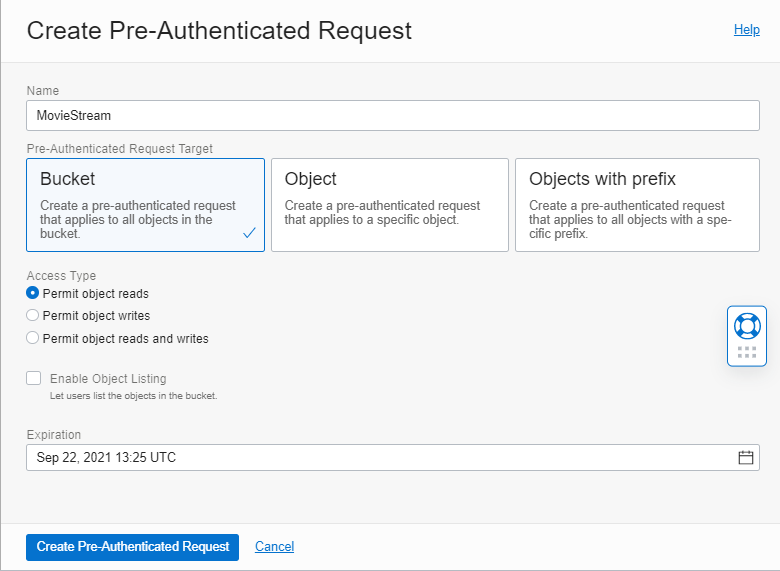
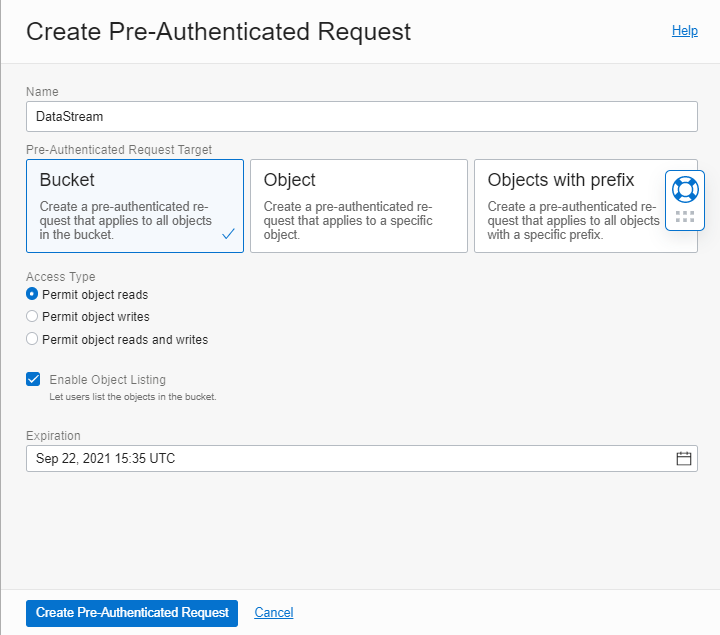
update on data feed

diff --git a/loading-datafeed/loading-datafeed.md b/loading-datafeed/loading-datafeed.md
@@ -37,28 +37,93 @@ To complete this lab, you need to have the following:
 4. Click on the vertical 3 dots icon on the right end of the bucket name and select the create pre-authenticated request option.
 ![Click on to create new bucket](images/click_the3dots_and_select_create_pre_authenticated_request.png =1000x500)
 
-5. Enter a name for the pre-authenticated request. Ensure their are not spaces in the name. Choose the option for Bucket.
+  Note: By default the visibility is set a private.  Its standard practice to keep bucket visibility private and create pre-authenticated request URI on which we can set permission and a expiry date.
+
+5. Enter a name for the pre-authenticated request. Ensure their are not spaces in the name. Choose the option for Bucket and check the Enable Object Listing option.
 ![Click on to create new bucket](images/enter_name_click_create_pre_authenticated_reqeust_button.png =1000x500)
 
 6. Copy the URI either by selecting it from the box or by clicking on the copy icon on the right side.
 ![Click on to create new bucket](images/copy_pre-authenticated_request_uri.png =1000x500)
 
-  Note the URI would look be like
-  https://objectstorage.<region>.oraclecloud.com/p/\<---token----\>/n/<--tenancy/namespace-->/b/<--Bucket Name-->/o/
+  Your URI would look like
 
-  delete the section "/p/<---token---->""
-
-  So you URI would look like
-
-  https://objectstorage.<region>.oraclecloud.com/n/<tenancy/namespace>/b/<Bukect Name>/o/
-
-  i.e., https://objectstorage.us-ashburn-1.oraclecloud.com/n/oraclepartnersas/b/DataStream/o/
+  https://objectstorage.us-ashburn-1.oraclecloud.com/p/YvB1YSywPUMK7PxLxa4i5ciUW-cmlOcOGMLc_ZA0EAcMWc1xEMVJMtQLApFdKCSo/n/oraclepartnersas/b/DataStream/o/
 
   **Save the URI into notepad as we would be using this in the further steps.**
 
+  **Note:** the URI would look be like
+  **https://objectstorage.<region>.oraclecloud.com/p/<--token-->/n/<--tenancy or namespace-->/b/<--Bucket Name-->/o/**
+
+  Incase we have set the visibility of the bucket to public we can delete the section **"/p/<--token-->""**
+  So your URI would look like
+  **https://objectstorage.<region>.oraclecloud.com/n/<--tenancy or namespace-->/b/<--Bucket Name-->/o/**
+  i.e., https://objectstorage.us-ashburn-1.oraclecloud.com/n/oraclepartnersas/b/DataStream/o/
+
 ## Task 2: Create Data loading job using Live Data feed
+
+1. Go to ADW home page and click on service console button.
+![Click on to create new bucket](images/go_to_adw_console.png =1000x500)
+
+2. One the service console page select Development on the left hand menu and select Database Actions tile.
+![Click on to create new bucket](images/under_development_menu_select_database_action.png =1000x500)
+
+3. This would open a new tab with login page,  use the default user ADMIN and the password you assigned during database creation.
+![Click on to create new bucket](images/login_to_database_actions_homepage.png =500x500)
+
+4. Click on the Data Load tile to create a new data load job.
+![Click on to create new bucket](images/in_database_actions_select_dataload_under_datatools.png =1000x500)
+
+5. In the database actions page click on the Manage Cloud Store button
+![Click on to create new bucket](images/click_on_manage_cloud_store_button.png =1000x500)
+
+6. Click on the +Add Cloud Storage button
+![Click on to create new bucket](images/click_on_add_cloud_storage_button.png =1000x500)
+
+7. Enter name for the cloud storage and copy the pre-authenticated URI that we created earlier in the box labeled URI+bucket.
+![Click on to create new bucket](images/enter_name_and_pre-authenticated_URI_and_click_test_button.png =1000x500)
+    1. Click on the Test Button at bottom to test the connection.
+    2. If the connection is successfully we see the message. "Cloud Storage URI is valid for the credentials provided"
+    3. Click on Create button to create the
+8. step 8
+9. step 9
+10. step 10
 
 
 ## Task 3: Load July data file and run import manually
+
+1. step 1
+2. step 2
+3. step 3
+4. step 4
+5. step 5
+6. step 6
+7. step 7
+8. step 8
+9. step 9
+10. step 10
+
 ## Task 4: Load first set of data and verify the data loaded
+
+1. step 1
+2. step 2
+3. step 3
+4. step 4
+5. step 5
+6. step 6
+7. step 7
+8. step 8
+9. step 9
+10. step 10
+
 ## Task 5: Use the data for analysis
+
+1. step 1
+2. step 2
+3. step 3
+4. step 4
+5. step 5
+6. step 6
+7. step 7
+8. step 8
+9. step 9
+10. step 10
